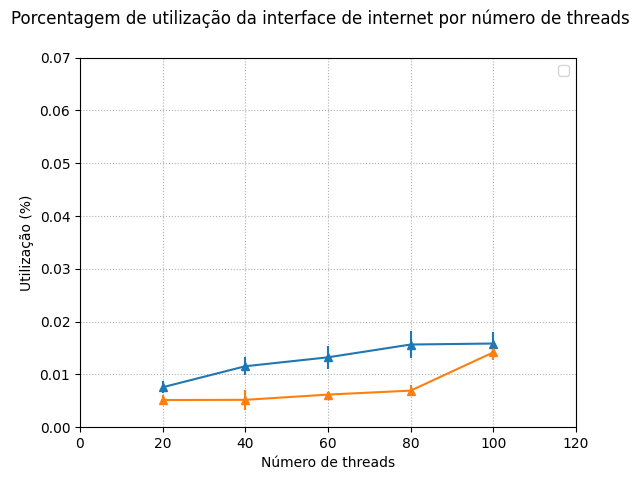
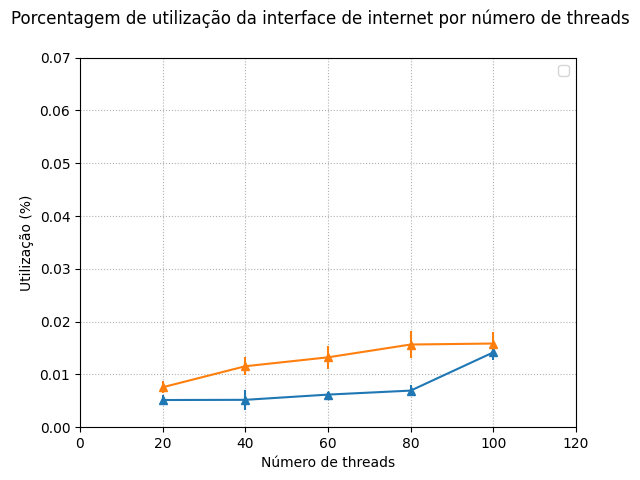
update graphs and tables w right order

diff --git a/translator.py b/translator.py
@@ -21,7 +21,7 @@ def returnGraphSpec(mix, metric):
                 if(mix == 'browsing'):
                         variables['ylim'] = 55
                 if(mix == 'shopping'):
-                        variables['ylim'] = 55
+                        variables['ylim'] = 70
     
         elif(metric == 'disk'):
                 variables['title']= "Número total de transferências (requisições I/O) por segundo"
@@ -29,7 +29,7 @@ def returnGraphSpec(mix, metric):
                 if(mix == 'browsing'):
                         variables['ylim'] = 55
                 if(mix == 'shopping'):
-                        variables['ylim'] = 55
+                        variables['ylim'] = 100
 
         elif(metric == 'mem'):
                 variables['title']= "Porcentagem de memória utilizada por número de threads"
@@ -143,4 +143,4 @@ def generateChart(comparison, webserviceA, webserviceB,  mix):
 
 
 # ---- CALLING FUNCTION ----#
-generateChart(True, "SOAP(t)", "REST(t)", "browsing")
+generateChart(True, "REST(t)", "SOAP(t)", "shopping")
